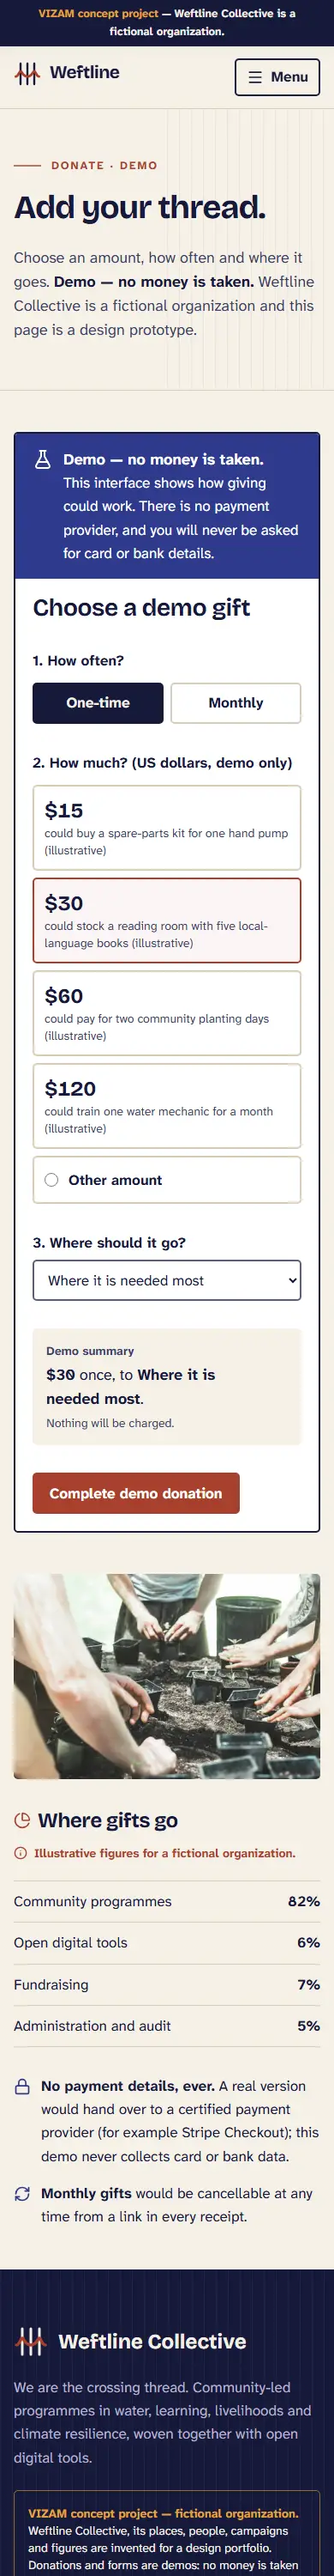
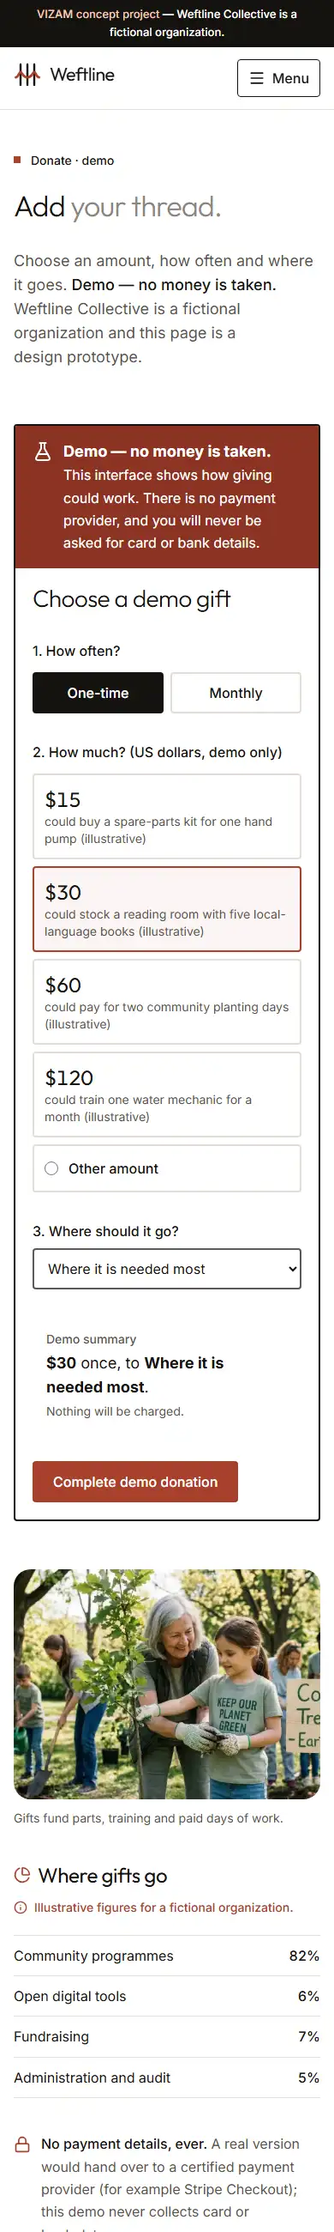
Docs: refresh screenshots, README and report for the redesign; QA sign-off pending

diff --git a/docs/report.md b/docs/report.md
@@ -11,35 +11,47 @@ illustrative. Donations are a demo: no money is taken.
   `lib/submissions.ts` runs rate limit, honeypot, then Zod validation (`lib/schemas.ts`) and builds a labelled demo reply.
 - Motion: GSAP for the hero thread (clip-path reveal) and Motion/`Reveal` for section reveals, both honouring
   `prefers-reduced-motion`.
-- Design direction (`docs/design-direction.md`): indigo ink and loom cream with madder red and turmeric accents,
-  editorial "ledger" layouts, photography of hands, tools and landscapes rather than pity imagery. Brand name check done
+- Design direction (`docs/design-direction.md`, revised 2026-11-06): a light, photograph-led layout closer to the
+  editorial feel of one reference nonprofit site. White page, near-black text, a warm-grey band and one brown accent
+  (tokens `page`, `band`, `accent`, `accent-dark`, `accent-tint`, `graphite`, `title-grey` in `app/globals.css`); Outfit
+  light for display and Inter for text. Full-viewport photo hero with a transparent header that turns solid on scroll,
+  grouped navigation with dropdowns, a "Get Involved" button and a Donate (demo) link, two-tone headings, arrow links,
+  a rounded feature card, photo bands and image pairs. Shared pieces: `Section`/`Split`/`Eyebrow`/`SectionHeading`/
+  `ArrowLink` in `components/ui/primitives.tsx`, plus `FeatureCard`, `ImagePair`, `PhotoBand`, and a light `PageHero`.
+  22 Unsplash/Pixabay WebP photos, each list (campaigns, news, programmes) with distinct images. Brand name check done
   2026-11-05 (no existing nonprofit found).
+- Reference analysis (`docs/REFERENCE_ANALYSIS.md`): only the reference site's home page was inspected (layout, type,
+  spacing and interaction characteristics); its inner pages were not. Nothing was copied (no code, text, images, logo or
+  compositions). The inner pages here are original layouts in the same style.
 - Layout rule: below 250 px the layout locks at 500 px and the visitor pans; the mobile menu overlay pans internally.
 
 ## Status
 
-All 11 page types are built (home, mission, about, programs, campaigns + detail, impact, news + detail, volunteer,
-donate, contact) with 404/error pages, sitemap, robots and OG image. Build, docs and the QA/security slice (Slice C,
-2026-11-06) are complete. Not deployed, not pushed.
+All 11 page types are built and re-laid out in the new design (home, mission, about, programs, campaigns + detail,
+impact, news + detail, volunteer, donate, contact) with 404/error pages, sitemap, robots and OG image. Redesign Slices
+1 to 3 are done (tokens and shared UI, photos and inner pages, docs and screenshots). Not deployed. PR #1 is open; this
+branch is not pushed after the redesign. Security and QA sign-off: **pending re-run after redesign (Opus)**.
 
-## Checks (final gate, Slice C, 2026-11-06, run on the final tree)
+## Checks (2026-11-06, after the redesign, Slice 3)
 
 | Check | Command | Result |
 |---|---|---|
 | Lint | `npm run lint` | pass (no output) |
 | Typecheck | `npm run typecheck` | pass |
 | Unit tests | `npm test` | pass: 3 files, 28 tests |
-| Build | `npm run build` | pass, 38 pages generated |
-| E2E + axe | `npm run test:e2e` | pass: 34/34 (axe on 12 pages, headers, forms, menu, 240 px lock and pan) |
-| Layout and screenshots | `node scripts/screenshots.mjs` | no horizontal scroll at 300 px and up, no unequal card rows; at 240 px on every route: root and fixed elements 500 px, `html` overflow-x auto, panX=200 |
-| Dependency audit | `npm audit` | 0 vulnerabilities (after the fix below) |
-| Secret scan | `npm run secret-scan` | no findings: 129 tracked files, 16 commits, 131 history paths, 108 text blobs |
-| Security headers | `curl -I` against `next start` | all headers present on 200 and 404 responses |
-| Keyboard and focus | Playwright probe | pass (see Accessibility) |
+| Build | `npm run build` | pass |
+| E2E + axe | `npm run test:e2e` | pass: 34/34 (axe on every route, headers, forms, menu, 240 px lock and pan, no horizontal scroll from 300 px) |
+| Layout and screenshots | `node scripts/screenshots.mjs` | 12 routes x 4 widths: no horizontal scroll at 300 px and up, no unequal card rows; at 240 px on every route: root and fixed elements 500 px, `html` overflow-x auto, panX=200; menu overlay opens at 240, 390 and 768 px |
+| Dependency audit | `npm audit` | 0 vulnerabilities |
+| Secret scan | `npm run secret-scan` | no findings: 111 tracked files, 23 commits, 150 history paths, 180 text blobs |
+| Security headers, keyboard, reduced motion | not re-run | pending Opus re-run (results below are from before the redesign) |
 
 Browser checks used headless Playwright (Chromium) from the terminal at 240, 390, 768 and 1440 px.
 
-## Security review (Slice C, confirmed)
+## Security review (Slice C, before the redesign; re-run pending)
+
+The findings below were confirmed on the pre-redesign tree. The redesign did not change the forms, server actions,
+headers or dependencies, but it has not been re-reviewed.
 
 Scope: source review plus live requests against a production build. This is not an independent security review or
 penetration test, and automated scans do not prove the site is secure.
@@ -109,13 +121,14 @@ penetration test, and automated scans do not prove the site is secure.
 
 ## QA sign-off
 
-**Verdict: signed off for preview and PR.**
+**Status: pending re-run after redesign (Opus).**
 
-- Every gate passes on the final tree.
-- Both real findings are fixed.
-- The open items are low or informational and documented above.
+- The earlier sign-off (2026-11-06, Slice C) applied to the pre-redesign tree and is not carried over.
+- Automated gates pass on the redesigned tree (table above); the manual review (headers, keyboard, focus, reduced
+  motion, contrast over photos, forms) still has to be repeated.
+- The open items from the earlier review are low or informational and documented above.
 
-This sign-off does not cover a production launch with real donations or personal data. That would need a payment
+Any sign-off will not cover a production launch with real donations or personal data. That would need a payment
 provider, an email provider, a shared rate-limit store and an independent security and privacy review.
 
 ## Known limitations
@@ -127,12 +140,16 @@ provider, an email provider, a shared rate-limit store and an independent securi
 - No CMS; content is edited in `content/`.
 - Not deployed; no Vercel project is linked, so there is no field performance data.
 - Brand-name check is a web search only, not a trademark clearance.
+- Reference analysis covers the reference site's home page only.
+- Transparent header over the hero: at 240 px the grey "Weftline" wordmark and Menu label sit on a pale sky and look
+  faint in the screenshot (axe passes; the header turns solid on scroll). Worth a look in the QA pass.
+- The water-carriers photo shows people from behind on purpose (no faces of vulnerable people). Photos are stock and
+  illustrate a fictional organization.
+- Wide screens leave empty space under the About heading on the home page and beside the campaign detail text column
+  under the funding card (layout choice, not a bug).
+- Screenshots in `docs/screenshots/` are cropped at 2600 px and compressed (quality 60).
 
 ## Portfolio case-study blurb
 
-Weftline Collective is a VIZAM concept project: a website for a fictional NGO working on water, learning, livelihoods
-and climate resilience. The brief was to avoid the generic charity template. We built an editorial identity around one
-metaphor, the weft thread that binds a community's warp, with indigo and cream tones, honest photography of people at work
-and a ledger-style layout. The site covers campaigns, impact figures, news, volunteering and a clearly labelled demo
-donation flow, with server-validated forms and a layout that stays usable down to 240 px. Built with Next.js, TypeScript,
-Tailwind, GSAP and Motion. Fictional organization; no real donations.
+
+Weftline Collective is a VIZAM concept project: a website for a fictional NGO working on water, learning, livelihoods and climate resilience. The brief was to move away from the generic charity template toward an editorial, photograph-led look. We built a light layout with a full-viewport photo hero, a single brown accent, Outfit and Inter type, clear photography of people at work and a rounded feature card for the lead campaign. The site covers campaigns, impact figures, news, volunteering and a clearly labelled demo donation flow, with server-validated forms and a layout that stays usable down to 240 px. Built with Next.js, TypeScript, Tailwind, GSAP and Motion. Fictional organization; no real donations.

diff --git a/docs/AGENT_HANDOFF.md b/docs/AGENT_HANDOFF.md
@@ -1,6 +1,6 @@
 # Agent handoff — vizam-04-ngo-impact (Weftline Collective)
 
-_Last updated: 2026-11-06 after redesign Slice 2 (Claude Sonnet)_
+_Last updated: 2026-11-06 after redesign Slice 3 (Claude Sonnet)_
 
 ## Objective
 VIZAM portfolio concept: a modern nonprofit website for the fictional NGO **Weftline Collective**, showing campaigns,
@@ -73,13 +73,16 @@ Direction: closer to higherlifefoundation.org (see `docs/REFERENCE_ANALYSIS.md`)
 ### Checks (Slice 2)
 `npm run lint` pass; `npm run typecheck` pass; `npm test` 28/28; `npm run build` pass; `npm run test:e2e` 34/34 (axe on all routes, no assertion changes needed); `npm audit` 0 vulnerabilities; `npm run secret-scan` no findings. `scripts/screenshots.mjs` on 14 routes x 240/390/768/1440: no horizontal scroll at 390/768/1440, no unequal card rows, 240 px locks (scrollWidth 500, root 500, html overflow-x auto, fixedNot500=0, panX=200) on every route, menu overlay opens at 240/390/768.
 
-### Known gaps
-- `docs/screenshots/` and the README screenshots/portfolio images are still the old design (Slice 3).
-- README prose (design description) and `docs/report.md` still describe the old design; only the credits table was updated.
-- Photo notes: hero sky is slightly dimmed by the nav scrim; the water-carriers photo shows people from behind (deliberate, no faces of vulnerable people).
+## Redesign Slice 3 (2026-11-06, Sonnet) - docs and screenshots
+-  regenerated from a fresh build (27 WebP, ~2.8 MB): Home, Campaigns, campaign detail, Donate, Volunteer, About at 240/390/768/1440 plus menu-open at 240/390/768.  now includes About, quality 60, crop 2600 px. Old screenshots deleted; raw PNGs in git-ignored .
+- Looked at home 1440/390/240, campaign detail 1440/390 and the 390 menu: photos clear and bright, text readable, nothing broken. Observations: at 240 px the grey wordmark and Menu label are faint on the pale sky of the transparent header; wide screens leave empty space under the About heading (home) and under the funding card (campaign detail). No code changed.
+- README (design section, screenshots, structure, accessibility wording),  (design summary, reference analysis note: home page only, status, checks, limitations, 111-word blurb). Security/QA sign-off marked pending re-run after redesign (Opus).
+
+### Checks (Slice 3, 2026-11-06)
+lint pass; typecheck pass; npm test 28/28; build pass; test:e2e 34/34; secret-scan no findings (111 files, 23 commits, 180 blobs); npm audit 0 vulnerabilities; screenshots.mjs: no h-scroll >=300 px, no unequal rows, 240 px lock OK on every route. Not re-run: headers, keyboard/focus, reduced-motion probes.
 
 ## Next step
-Slice 3 (Opus for QA): refresh `docs/screenshots/` (scripts/screenshots.mjs, scripts/compress-screenshots.mjs) and README screenshots, update README/report for the new design, full QA and security re-check (axe, keyboard, reduced motion, headers), then push/PR update by the coordinator.
+Opus QA and security sign-off on the redesigned tree: re-run headers, keyboard/focus, reduced motion, contrast over photos, forms; consider the 240 px header contrast; then the coordinator pushes the branch (PR #1 already open) after .
 
 ## Pending (pre-redesign sections below are historical)
 - Nothing in the build or QA scope. The coordinator still has to re-verify, fast-forward, push and open the PR (see Next step).

diff --git a/README.md b/README.md
@@ -19,11 +19,21 @@ site is labelled fictional everywhere (footer included). Details in `docs/design
 |---|---|
 | ![Home at 1440 px](docs/screenshots/home-1440.webp) | ![Campaign detail at 1440 px](docs/screenshots/campaigns_twelve-taps-saren-valley-1440.webp) |
 
-| Donate (390) | Menu open (390) |
+| Home (390) | Menu open (390) |
 |---|---|
-| ![Donate at 390 px](docs/screenshots/donate-390.webp) | ![Mobile menu at 390 px](docs/screenshots/menu-open-390.webp) |
+| ![Home at 390 px](docs/screenshots/home-390.webp) | ![Mobile menu at 390 px](docs/screenshots/menu-open-390.webp) |
 
-More widths (240, 390, 768, 1440) are in `docs/screenshots/`.
+Home, Campaigns, a campaign detail, Donate, Volunteer and About at 240, 390, 768 and 1440 px, plus the open menu at 240,
+390 and 768 px, are in `docs/screenshots/` (compressed WebP, long pages cropped at 2600 px).
+
+## Design
+
+A light, photograph-led layout: white page, near-black text, a warm-grey band for secondary sections and a single brown
+accent. Outfit (light display) and Inter (text). A full-viewport photo hero with a transparent header that turns solid on
+scroll, two-tone headings, square-bullet eyebrows, arrow links, a rounded feature card for the featured campaign,
+full-bleed photo bands and tall image pairs with captions. The direction takes its characteristics from the editorial
+feel of one reference nonprofit home page (no code, text, images or compositions copied); see `docs/design-direction.md`
+and `docs/REFERENCE_ANALYSIS.md`.
 
 ## Stack
 
@@ -61,13 +71,13 @@ Port 3104 is used because 3000/3001 are often taken.
 
 ```
 app/            routes (App Router), server actions in app/actions/forms.ts, sitemap, robots, OG image
-components/     brand, campaigns, forms, layout, motion, news, sections, ui
+components/     brand, campaigns, forms, layout, motion, news, sections, ui (FeatureCard, ImagePair, PhotoBand, primitives)
 content/        typed local content: site, programs, campaigns, news, impact, about, credits
 lib/            Zod schemas, rate limiter, submission handling, filters, formatting, metadata helpers
 public/         compressed WebP photography
 tests/unit/     Vitest; tests/e2e/ Playwright + axe
-scripts/        screenshots.mjs, compress-screenshots.mjs
-docs/           design-direction, plan, report, handoff, screenshots
+scripts/        screenshots.mjs, compress-screenshots.mjs, secret-scan.mjs
+docs/           design-direction, REFERENCE_ANALYSIS, plan, report, handoff, screenshots (WebP)
 ```
 
 ## Forms
@@ -89,7 +99,8 @@ Contact, volunteer and donate forms are server actions with the same behaviour:
 - Layout verified at 240, 390, 768 and 1440 px with no horizontal scroll from 300 px up and equal-size cards in grids.
 - Below 250 px the layout locks at 500 px and the visitor pans (`#root` and fixed elements are 500 px wide,
   `html { overflow-x: auto }`; the mobile menu overlay pans so Close stays reachable).
-- WCAG 2.2 AA review and QA sign-off done on 2026-11-06; results are in [`docs/report.md`](docs/report.md).
+- axe-core passes on every page after the redesign. The full WCAG review and security sign-off are pending a re-run
+  after the redesign; see [`docs/report.md`](docs/report.md).
 
 ## Photo credits
 
